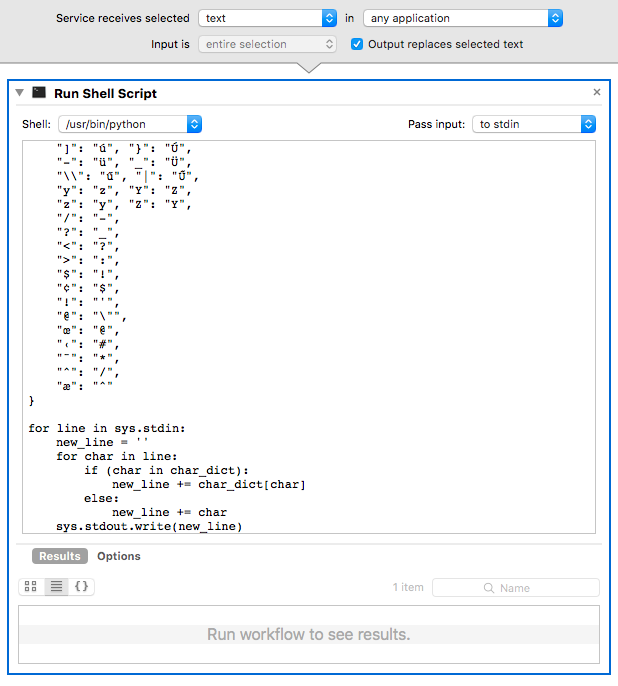
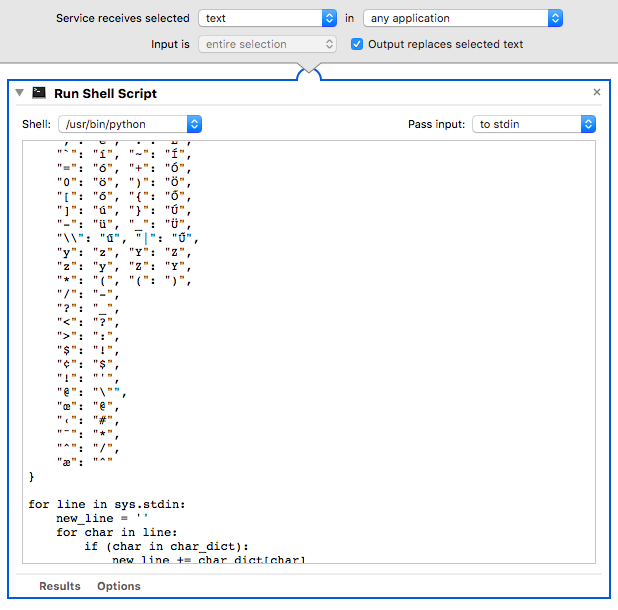
parentheses added

diff --git a/hunglish-text-converter.py b/hunglish-text-converter.py
@@ -15,6 +15,7 @@ char_dict = {
 	"\\": "ű", "|": "Ű",
 	"y": "z", "Y": "Z",
 	"z": "y", "Z": "Y",
+	"*": "(", "(": ")",
 	"/": "-",
 	"?": "_",
 	"<": "?",
